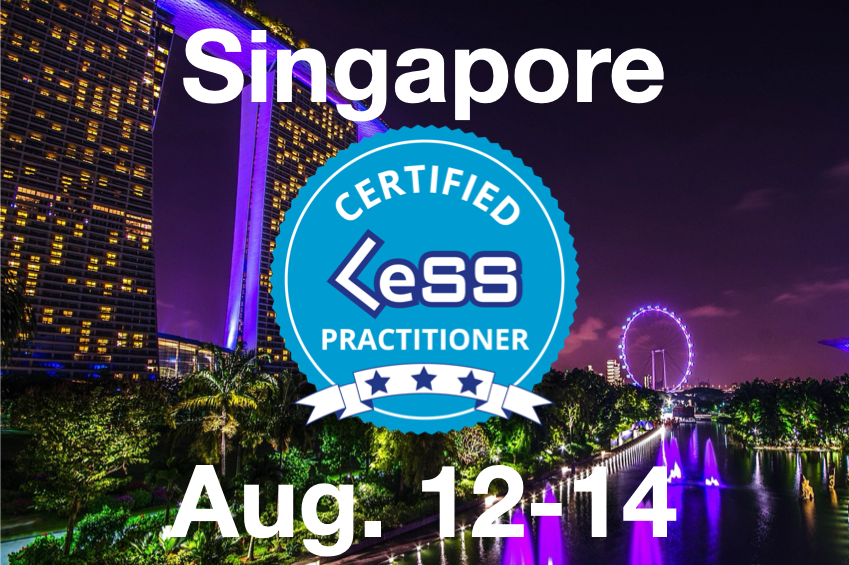
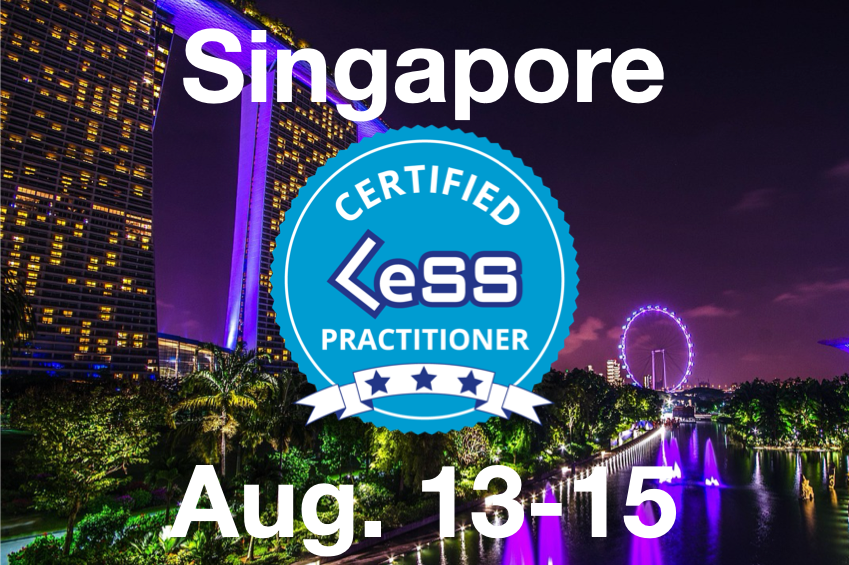
nudged dates for Singapore and Tokyo

Changed region(s): [[0.735, 0.8124, 0.7962, 0.9628], [0.5512, 0.8726, 0.6431, 0.9628], [0.5512, 0.8425, 0.5819, 0.8726]]

diff --git a/clp/tokyo_summer_2025.md b/clp/tokyo_summer_2025.md
@@ -1,13 +1,13 @@
 ---
-title: Tokyo Certified LeSS Practitioner Course Summer 2025
+title: Tokyo Certified LeSS Practitioner Course August 4-6, 2025
 #image: /assets/images/clp/GlobalCLPWebsitePageHeader.png
 image: /assets/images/clp/TokyoWebsitePageHeaderNoDates.png
-ogimage: /assets/images/clp/TokyoCLPWebsitePageHeaderAug5to7_OgImage.png
+ogimage: /assets/images/clp/TokyoCLPWebsitePageHeaderAug4to6_OgImage.png
 author: James
 layout: book
 trainingevent:
-  startDate: "2025-08-05T08:30+09:00"
-  endDate: "2025-08-07T18:00+09:00"
+  startDate: "2025-08-04T08:30+09:00"
+  endDate: "2025-08-06T18:00+09:00"
   location:
     name: "TBD"
     address:
@@ -32,7 +32,7 @@ trainingevent:
     url: "https://agilecarpentry.com"
 ---
 
-<a class="wx-button" href="https://agilecarpentry.ticketspice.com/tokyo-certified-less-practitioner-summer-2025" style="background:rgba(36,36,36,1);color:white;padding:10px 20px;text-decoration:none;font-weight:bold;" target="_blank">August 5-7: Get Tickets</a>
+<a class="wx-button" href="https://agilecarpentry.ticketspice.com/tokyo-certified-less-practitioner-summer-2025" style="background:rgba(36,36,36,1);color:white;padding:10px 20px;text-decoration:none;font-weight:bold;" target="_blank">August 4-6: Get Tickets</a>
 
 
 # 日本語は可能です
@@ -82,7 +82,7 @@ I am expecting to include lunch in the price of the course. The exception is if 
 
 # Tickets
 
-<a class="wx-button" href="https://agilecarpentry.ticketspice.com/tokyo-certified-less-practitioner-summer-2025" style="background:rgba(36,36,36,1);color:white;padding:10px 20px;text-decoration:none;font-weight:bold;" target="_blank">August 5-7: Get Tickets</a>
+<a class="wx-button" href="https://agilecarpentry.ticketspice.com/tokyo-certified-less-practitioner-summer-2025" style="background:rgba(36,36,36,1);color:white;padding:10px 20px;text-decoration:none;font-weight:bold;" target="_blank">August 4-6: Get Tickets</a>
 
 
 

diff --git a/clp/singapore_summer_2025.md b/clp/singapore_summer_2025.md
@@ -1,8 +1,8 @@
 ---
-title: Singapore Certified LeSS Practitioner Course August 12-14, 2025
+title: Singapore Certified LeSS Practitioner Course August 13-15, 2025
 #image: /assets/images/clp/GlobalCLPWebsitePageHeader.png
 image: /assets/images/clp/SingaporeWebsitePageHeaderNoDates.png
-ogimage: /assets/images/clp/SingaporeCLPWebsitePageHeaderAug12to14_OgImage.png
+ogimage: /assets/images/clp/SingaporeCLPWebsitePageHeaderAug13to15_OgImage.png
 author: James
 layout: book
 trainingevent:
@@ -32,7 +32,7 @@ trainingevent:
     url: "https://agilecarpentry.com"
 ---
 
-<a class="wx-button" href="https://agilecarpentry.ticketspice.com/tokyo-certified-less-practitioner-summer-2025" style="background:rgba(36,36,36,1);color:white;padding:10px 20px;text-decoration:none;font-weight:bold;" target="_blank">August 12-14: Get Tickets</a>
+<a class="wx-button" href="https://agilecarpentry.ticketspice.com/tokyo-certified-less-practitioner-summer-2025" style="background:rgba(36,36,36,1);color:white;padding:10px 20px;text-decoration:none;font-weight:bold;" target="_blank">August 13-15: Get Tickets</a>
 
 {% include_relative _includes/course_agenda_no_air_force.md %}
 
@@ -56,7 +56,7 @@ More details of the refund strategy can be found on the ticket page.
 
 # Tickets
 
-<a class="wx-button" href="https://agilecarpentry.ticketspice.com/singapore-certified-less-practitioner-summer-2025" style="background:rgba(36,36,36,1);color:white;padding:10px 20px;text-decoration:none;font-weight:bold;" target="_blank">August 12-14: Get Tickets</a>
+<a class="wx-button" href="https://agilecarpentry.ticketspice.com/singapore-certified-less-practitioner-summer-2025" style="background:rgba(36,36,36,1);color:white;padding:10px 20px;text-decoration:none;font-weight:bold;" target="_blank">August 13-15: Get Tickets</a>
 
 
 
